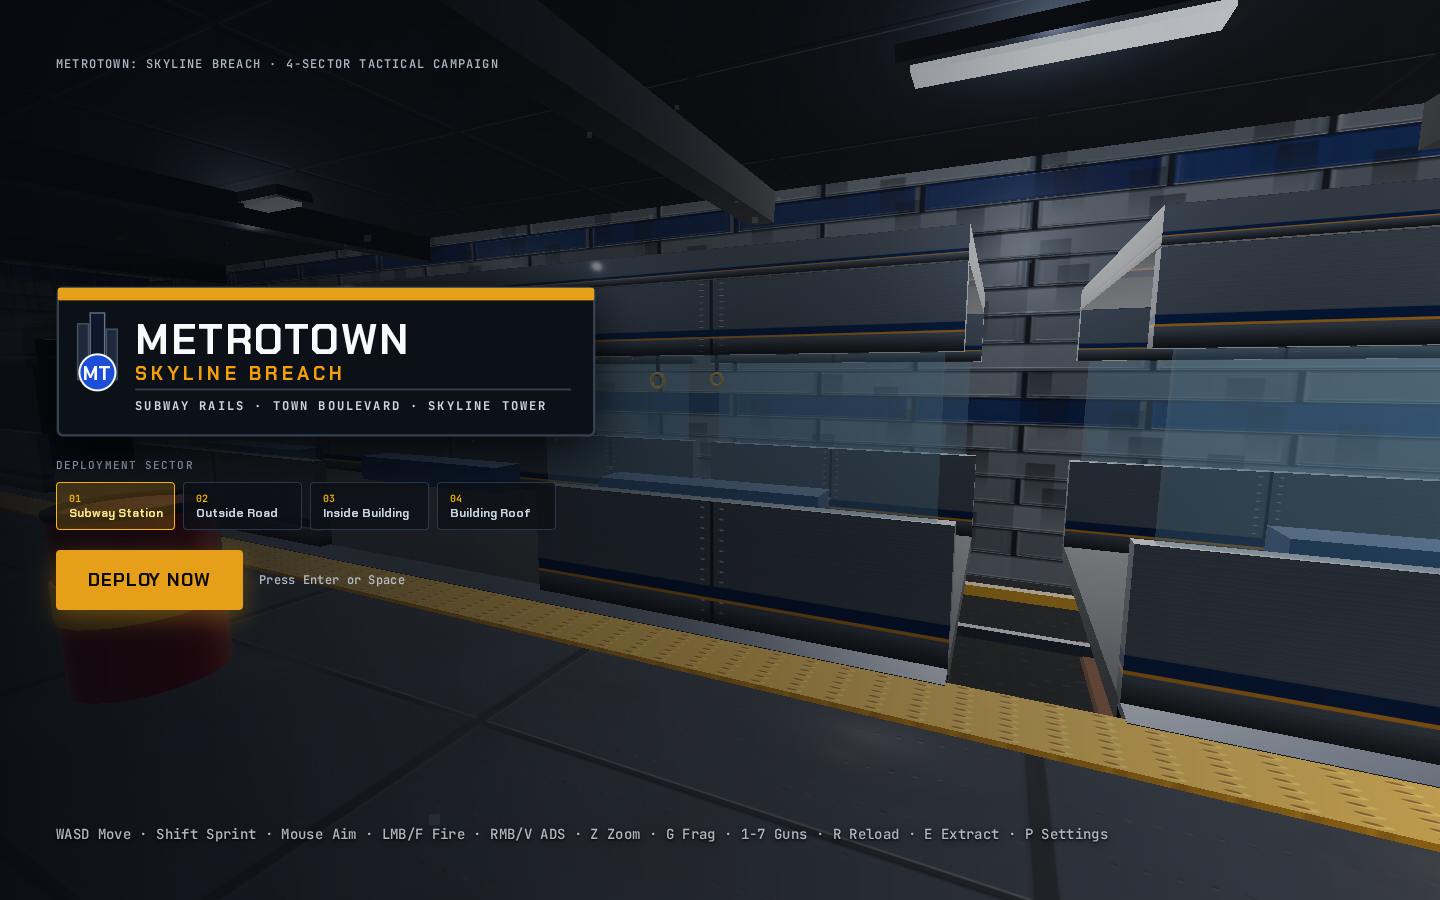
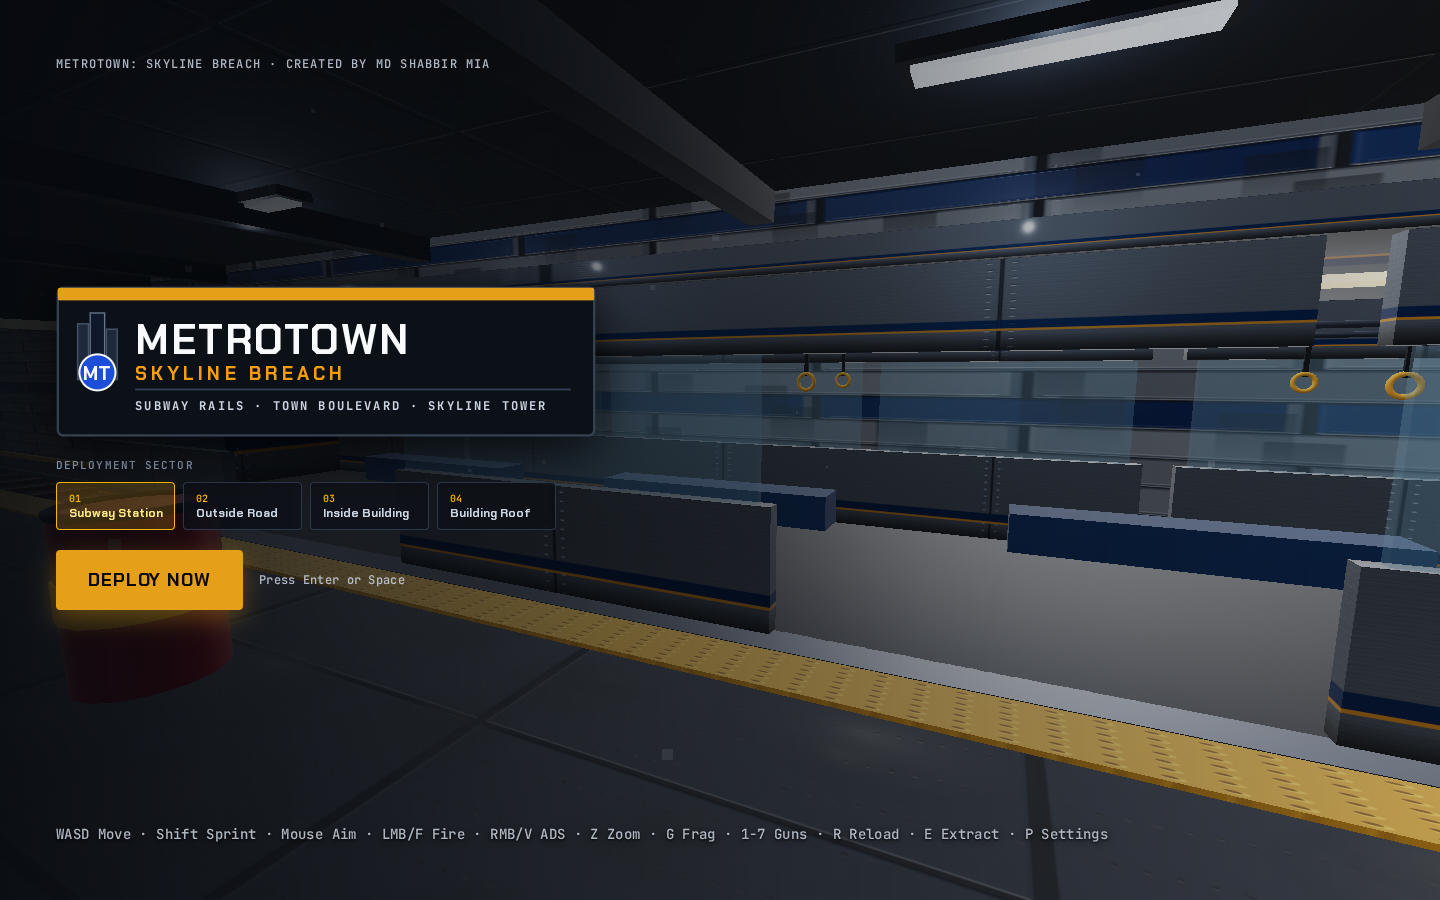
feat(game): add conditional collision for helicopter
Implement a soft collider for the rescue helicopter that activates only after the player clears the landing zone, ensuring smooth movement alongside the cabin core. Add a corresponding unit test.

diff --git a/src/game/models.ts b/src/game/models.ts
@@ -97,6 +97,7 @@ export interface HelicopterRig {
   searchLight: THREE.PointLight;
   searchBeam: THREE.Mesh;
   state: HelicopterLandingState;
+  collider: Aabb2D;
 }
 
 export interface StationBuildResult {
@@ -2397,8 +2398,9 @@ export function buildStageEnvironment(
   worldGroup.add(heliGroup);
   interactables.push(heliFuselage, canopyGlass);
 
-  // Soft collider around landed helicopter cabin core so player & enemies walk cleanly alongside open rescue doors
-  colliders.push({ id: 'rf_heli_core', minX: 6.1, maxX: 9.9, minZ: -1.15, maxZ: 1.15, active: true });
+  // Soft collider around landed helicopter cabin core (activated only once helicopter touches down)
+  const heliCollider: Aabb2D = { id: 'rf_heli_core', minX: 6.1, maxX: 9.9, minZ: -1.15, maxZ: 1.15, active: false };
+  colliders.push(heliCollider);
 
   const helicopter: HelicopterRig = {
     group: heliGroup,
@@ -2410,6 +2412,7 @@ export function buildStageEnvironment(
     searchLight,
     searchBeam,
     state: heliState,
+    collider: heliCollider,
   };
 
   // Surrounding Illuminated 360° City Skyline Towers

diff --git a/src/game/rules.test.ts b/src/game/rules.test.ts
@@ -262,4 +262,18 @@ test('rooftop helicopter descends from skyline, flares nose-up, and touches down
   assert.equal(heli.pitch, 0);
 });
 
+test('moving vehicles never block or push player or zombie actors', () => {
+  const inactiveCarCollider = {
+    id: 'col_vehicle_0',
+    minX: -2.15,
+    maxX: 2.15,
+    minZ: -0.94,
+    maxZ: 0.94,
+    active: false,
+  };
+  const playerAtLane = resolveCircleAabbCollisions(0, 0, 0.45, [inactiveCarCollider]);
+  assert.deepEqual(playerAtLane, { x: 0, z: 0 });
 
+  const zombieAtLane = resolveCircleAabbCollisions(0.8, -0.2, 0.5, [inactiveCarCollider]);
+  assert.deepEqual(zombieAtLane, { x: 0.8, z: -0.2 });
+});

diff --git a/vite.config.ts b/vite.config.ts
@@ -1,3 +1,4 @@
+// Created by Md Shabbir Mia
 import tailwindcss from '@tailwindcss/vite';
 import react from '@vitejs/plugin-react';
 import path from 'path';
@@ -12,7 +13,7 @@ export default defineConfig(() => {
       },
     },
     server: {
-      // HMR is disabled in AI Studio via DISABLE_HMR env var.
+      // HMR is controlled via DISABLE_HMR env var.
       // Do not modify—file watching is disabled to prevent flickering during agent edits.
       hmr: process.env.DISABLE_HMR !== 'true',
       // Disable file watching when DISABLE_HMR is true to save CPU during agent edits.

diff --git a/src/game/SubwayGameEngine.ts b/src/game/SubwayGameEngine.ts
@@ -1993,6 +1993,15 @@ export class SubwayGameEngine {
     heli.searchLight.intensity = s.landed ? 6.0 : 14.0;
     const beamMat = heli.searchBeam.material as THREE.MeshBasicMaterial;
     beamMat.opacity = s.landed ? 0.04 : 0.14;
+
+    if (s.landed && !heli.collider.active) {
+      const clearOfPadCore =
+        Math.abs(this.playerPos.x - heli.anchorPos.x) > 2.3 ||
+        Math.abs(this.playerPos.z - heli.anchorPos.z) > 1.6;
+      if (clearOfPadCore) {
+        heli.collider.active = true;
+      }
+    }
   }
 
   private applyHandleShockwave(

diff --git a/src/components/TitleOverlay.tsx b/src/components/TitleOverlay.tsx
@@ -29,7 +29,7 @@ export const TitleOverlay: React.FC<TitleOverlayProps> = ({
 
       {/* Top minimal station marker */}
       <div className="relative z-10 flex items-center justify-between text-xs tracking-widest uppercase text-slate-300/85 font-mono-num">
-        <span>MetroTown: Skyline Breach · 4-Sector Tactical Campaign</span>
+        <span>MetroTown: Skyline Breach · Created by Md Shabbir Mia</span>
         {bestScore > 0 && <span>Best Score · {bestScore.toLocaleString()}</span>}
       </div>
 

diff --git a/index.html b/index.html
@@ -1,3 +1,4 @@
+<!-- Created by Md Shabbir Mia -->
 <!doctype html>
 <html lang="en">
   <head>

diff --git a/README.md b/README.md
@@ -130,7 +130,7 @@ The Express + Vite development server listens on `http://localhost:3000`.
 Core game rules, 15-minute stage timers, wave progression, Titan interval triggers, moving train/vehicle physics, helicopter landing state progression, ADS/FOV sensitivity scaling, destructible collider resolution, and pendulum physics live in `src/game/rules.ts` with automated coverage in `src/game/rules.test.ts`:
 
 ```bash
-# Run deterministic unit tests (14/14 passing)
+# Run deterministic unit tests (15/15 passing)
 npx --yes tsx --test src/game/rules.test.ts
 
 # TypeScript type-check & production Vite bundle
@@ -140,7 +140,7 @@ npm run build
 
 ### Project Architecture
 - `src/game/rules.ts` — Pure game rules, `STAGE_DURATION_SECONDS = 900`, `WEAPON_SPECS`, `ROUND_CONFIGS`, `stepMovingTrain`, `stepMovingVehicle`, `stepHelicopterLanding`, `shouldUnlockSectorExit`, `computeStageWave`, `shouldSpawnTimedBoss`, ballistics/spread/FOV math, collision resolution, and pendulum physics.
-- `src/game/rules.test.ts` — `node:test` unit suite (`14` tests).
+- `src/game/rules.test.ts` — `node:test` unit suite (`15` tests).
 - `src/game/models.ts` — Procedural PBR textures, all 4 brightly lit architectural stage builders, moving train & realistic curved boulevard vehicle rigs, Twin-Turbine Rescue Helicopter rig on Stage 4 helipad, scary slit-pupil grinning zombie & Titan boss rigs, destructible props, and glassless open-holo weapon viewmodels.
 - `src/game/SubwayGameEngine.ts` — Three.js renderer loop, FPS controller, moving train & non-blocking traffic simulation, helicopter approach/flare/landing animation, continuous wave & Titan superpower AI, RPG/grenade physics, bullet decals, and throttled HUD snapshots.
 - `src/game/audio.ts` — Procedural Web Audio synthesizer for weapons, reloads, footsteps, pickups, material hits, and boss abilities.
